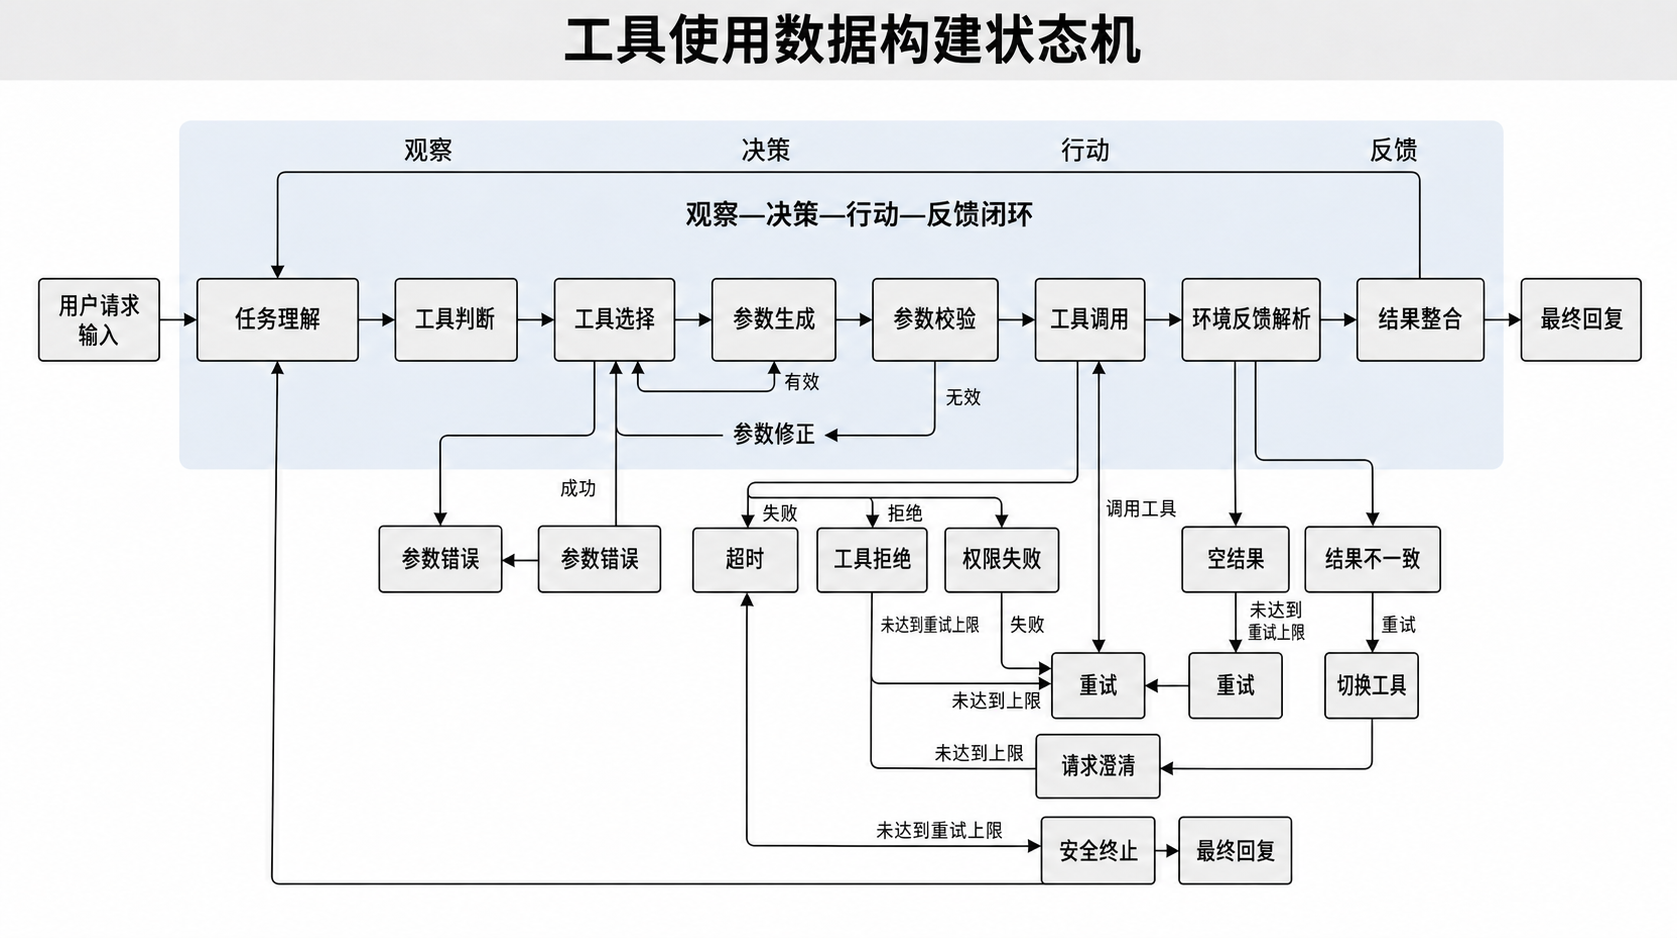
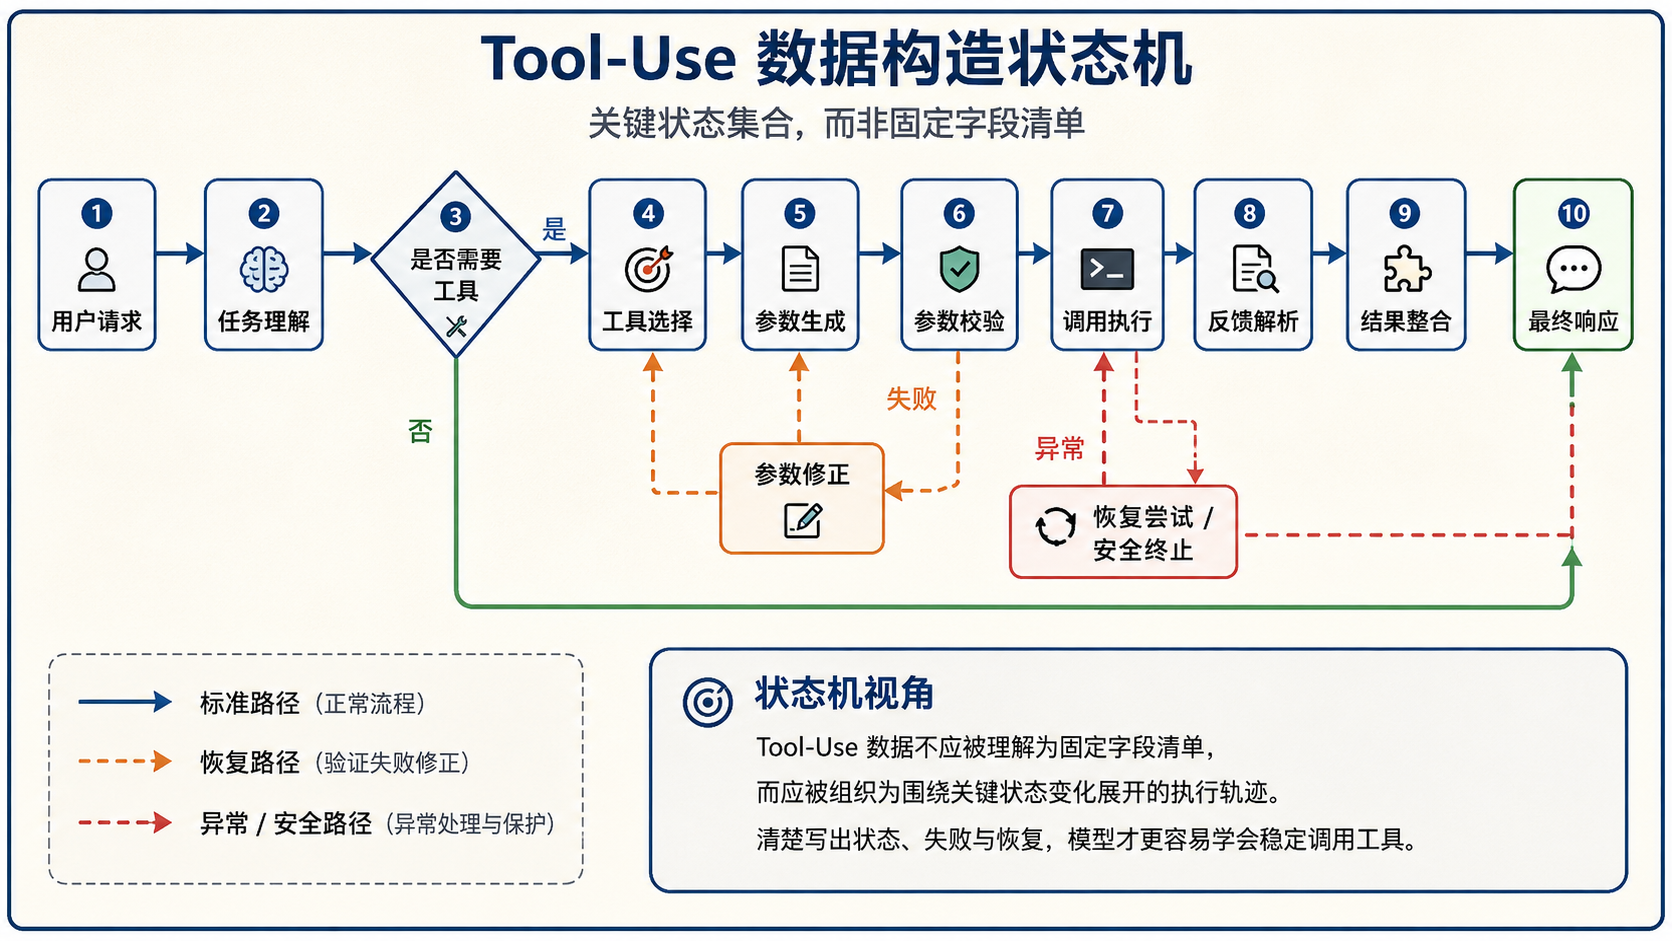
Modified according to the review (#116)
* Fix P14 image display issue

* Fix references in parts 4, 5, and 6

* Optimize Chinese images and revise text content (#51)

* Fix figure in parts 4, 5, and 6

* case update

* Update the English images and modify the issues related to cross-review.

* Update the English images and modify the issues related to cross-review.

* Modified according to the review

Pull request: Modified according to the review

Changed region(s): [[0.0, 0.0, 1.0, 0.9893], [0.0622, 0.6802, 0.3421, 0.8966], [0.1555, 0.4638, 0.1866, 0.4947]]

diff --git a/docs/zh/part4/ch14_qa.md b/docs/zh/part4/ch14_qa.md
@@ -1,8 +1,8 @@
-# 第14章：标注平台、QA体系与数据运营
+# 第14章 标注平台、质量保障体系与数据运营
 
 ## 摘要
 
-标注平台不是简单的"发任务工具"，而是一套质量控制系统。本章面向负责数据标注平台、QA 体系与运营治理的团队，阐述大模型数据标注与传统 CV/NLP 标注的差异，以及平台能力、流程能力与运营能力的边界。章节先讨论单轮问答、多轮对话、比较标注、审稿式标注的任务建模与工作流，包括样本分发、权限控制、进度监控与返工机制；随后建立 QA 一致性管理体系，涵盖预审、复审、仲裁、抽检、盲审的组合模式，以及一致性指标、黄金集与陷阱题的使用方法；进而讨论人效、质量、周期、成本四类运营指标与外包供应商治理；最后说明标注知识库、QA 手册与复盘库的沉淀，并衔接数据运营组织建设。
+本章围绕“标注平台、质量保障（Quality Assurance，QA）体系与数据运营”展开，聚焦大模型数据工程中的关键设计问题。章节从场景约束、数据对象、流水线设计、质量评估和工程治理等维度展开，说明如何把零散的数据处理动作收敛为可复盘、可验证、可交付的系统方法，并为后续章节和项目实战建立统一分析框架。
 
 ## 关键词
 
@@ -52,7 +52,7 @@
 
 从这个意义上说，标注平台的真正目标，应从支持某一次任务顺利完成，延伸到逐步让组织具备持续生产高质量数据的能力。这种能力越成熟，团队越不依赖临时协调和个人经验；反之，平台越薄弱，项目越大，组织就越容易陷入反复被动处置的状态。
 
-### 14.1.3 大模型数据标注与传统 CV/NLP 标注的差异
+### 14.1.3 大模型数据标注与传统计算机视觉（Computer Vision，CV）/自然语言处理（Natural Language Processing，NLP）标注的差异
 
 如果说平台为什么必须从任务工具升级为质量控制系统，那么最根本的原因，就在于大模型数据标注本身已经不同于传统的 CV 或 NLP 标注任务。很多团队在建设标注体系时最容易犯的错误，就是把过去做分类、检测、分割、实体识别、情感分类时的经验，直接平移到大模型数据上。他们默认任务只是“更复杂一点”，却没有意识到任务范式本身已经变了。
 
@@ -60,7 +60,7 @@
 
 而大模型数据标注的核心对象，往往已经从单一标签转向模型行为本身。这里的标注，除了判断一个答案是否正确，还包括判断它是否完整、是否符合用户意图、是否遵守风格要求、是否具有安全边界意识、是否逻辑连贯、是否表达自然、是否结构清晰，甚至还包括在多个候选答案中比较哪一个“更好”，以及说明“为什么更好”。也就是说，大模型标注所面对的，已经从简单目标扩展为一组复合标准共同作用下的行为评价。InstructGPT、摘要偏好学习和基于人类偏好的强化学习研究，都体现了这种从标签判断转向行为偏好和目标对齐的变化 (Stiennon et al. 2020)。
 
-这种变化会带来若干实质性影响。首先，答案空间从封闭走向开放。很多传统标注任务只有有限几个类别，而大模型任务可能存在多个都可接受的答案，甚至同一个问题在不同场景下可以有不同风格的高质量回应。其次，质量维度从单维走向多维。传统标签任务通常围绕“是否正确”展开；大模型任务常常同时涉及事实性、完整性、清晰度、格式性、安全性与风格一致性。再次，主观判断比例显著上升。许多大模型任务并没有唯一标准答案，需要在多个合理候选中进行带解释的判断。最后，规则更新频率更高。传统数据集的标签定义可能数月不变，但大模型项目中的策略、风格、风险边界和产品需求都可能在几周内发生变化。开放式问答与多轮对话评测中的 LLM-as-a-judge 研究，也专门讨论了位置偏差、冗长偏差和与人类偏好一致性等问题，说明开放式评价不能简单等同于传统分类准确率 (Zheng et al. 2023)。
+这种变化会带来若干实质性影响。首先，答案空间从封闭走向开放。很多传统标注任务只有有限几个类别，而大模型任务可能存在多个都可接受的答案，甚至同一个问题在不同场景下可以有不同风格的高质量回应。其次，质量维度从单维走向多维。传统标签任务通常围绕“是否正确”展开；大模型任务常常同时涉及事实性、完整性、清晰度、格式性、安全性与风格一致性。再次，主观判断比例显著上升。许多大模型任务并没有唯一标准答案，需要在多个合理候选中进行带解释的判断。最后，规则更新频率更高。传统数据集的标签定义可能数月不变，但大模型项目中的策略、风格、风险边界和产品需求都可能在较短周期内频繁变化。开放式问答与多轮对话评测中的 LLM-as-a-judge 研究，也专门讨论了位置偏差、冗长偏差和与人类偏好一致性等问题，说明开放式评价不能简单等同于传统分类准确率 (Zheng et al. 2023)。
 
 正因为存在这些差异，大模型数据标注不能简单复制传统模式。如果仍然把平台做成“给一个输入、收一个输出”的简单表单系统，把质检理解成末端抽查，把运营理解成监督进度，那么项目往往会迅速出现质量漂移、口径不一、返工堆积和成本失控。大模型数据生产需要的，已经超出扩大标注团队本身，还包括更强的规则建模能力、更细的流程治理能力和更持续的质量校准能力。
 
@@ -98,7 +98,7 @@
 
 流程能力，指的是组织是否想清楚了任务应当如何被组织和流转。它解决的是“应该怎么跑”的问题，例如什么类型的任务要单审，什么类型的任务要双审，什么情况直接返工，什么情况升级仲裁，哪些样本要进入审计样本池，哪些阶段需要插入黄金集。流程能力未必直接体现在代码中，但它决定了平台应如何被配置，也决定了QA系统的运作方式。
 
-运营能力，则是让平台和流程在真实环境中持续运转的能力。它解决的是“现实中如何稳定执行”的问题，例如如何做排班，如何培训新团队，如何管理外包供应商，如何追踪SLA，如何在质量、周期和成本之间平衡，如何在规则更新之后快速完成口径同步。运营的含义超出简单的人力调度，指的是面对波动、延迟、人员水平差异和任务峰谷变化时，仍能让系统维持稳定的能力。
+运营能力，则是让平台和流程在真实环境中持续运转的能力。它解决的是“现实中如何稳定执行”的问题，例如如何做排班，如何培训新团队，如何管理外包供应商，如何追踪服务等级协议（Service Level Agreement，SLA），如何在质量、周期和成本之间平衡，如何在规则更新之后快速完成口径同步。运营的含义超出简单的人力调度，指的是面对波动、延迟、人员水平差异和任务峰谷变化时，仍能让系统维持稳定的能力。
 
 这三类能力彼此相关，但不能互相替代。没有平台能力，很多流程只能靠人工表格和群聊维持，越做越脆弱；没有流程能力，平台即使功能齐全，也只能成为一个静态表单系统；没有运营能力，平台和流程再完美，也会在真实执行中因培训断层、沟通失真和资源波动而失效。
 
@@ -372,7 +372,7 @@
 
 
 
-**表14-1 标注角色职责与权限表**
+**表14-1： 标注角色职责与权限表**
 
 | 角色 | 核心职责 | 主要权限 | 关键边界 |
 |---|---|---|---|
@@ -532,7 +532,7 @@ FROM base;
 
 培训也绝不能停留在一次宣讲或一份文档分发。尤其在大模型任务中，很多规则无法通过读一遍就掌握，必须通过示例、试标、复盘和校准逐步内化。好的培训应当至少包含规则解释、典型错误分析、边界案例讨论和黄金集实操四部分。更重要的是，培训必须与实际任务绑定，避免空泛地讲原则。只有当培训材料与当前批次任务高度对应时，团队才会真正形成执行一致性。非专家标注研究表明，通过任务设计、示例和质量校验，可以在一定程度上提升非专家标注的可用性，但必须配合持续校准 (Snow et al. 2008; Kittur et al. 2008)。
 
-考核不应只看总通过率。因为一个团队可能在简单任务上表现良好，却在关键高风险任务上持续失误。如果考核维度过粗，组织就会被平均分欺骗。更合理的做法，是按任务类型、风险等级、错误标签分布、黄金集表现和SLA达成情况进行组合考核。这样一来，考核的结果才能真正指导分配、培训和替换决策。
+考核不应只看总通过率，因为一个团队可能在简单任务上表现良好，却在关键高风险任务上持续失误。如果考核维度过粗，组织就会被平均分欺骗。更合理的做法，是按任务类型、风险等级、错误标签分布、黄金集表现和SLA达成情况进行组合考核。这样一来，考核的结果才能真正指导分配、培训和替换决策。
 
 替换机制同样需要制度化。许多团队直到供应商已经严重拖累项目，才下决心更换，但那时往往已经付出高昂代价。更成熟的做法，是设定明确的预警与退出条件，例如连续多周期SLA不达标、关键错误类型持续恶化、培训后仍未改善、跨团队校准后口径偏差仍大等。一旦触发阈值，就应启动限流、整改或替换流程，而不应继续依赖临时协调拖延问题。
 
@@ -565,7 +565,7 @@ FROM base;
 
 ### 14.4.5 标注生产率与成本治理
 
-在大模型数据生产中，“提高效率”和“压低成本”常常被挂在嘴边，但真正落到执行时，这两个目标往往被粗暴地理解为“让人做得更快”或者“把单价谈得更低”。这种做法短期看似有效，长期往往适得其反。因为在数据生产体系中，最重要的不是表面的速度和价格，而要看单位资源最终换来了多少真正可用、可复用、可支撑模型迭代的数据。
+在大模型数据生产过程中，效率提升与成本控制常被作为重要管理目标加以强调；但在实际执行中，这些目标有时会被片面理解为加快人工处理节奏或压缩单位任务成本。这种做法短期看似有效，长期往往适得其反。因为在数据生产体系中，最重要的不是表面的速度和价格，而要看单位资源最终换来了多少真正可用、可复用、可支撑模型迭代的数据。
 
 所谓标注生产率，核心不在每人每天做多少条，而在于既定质量约束下，每单位工时、每单位审核资源、每单位平台投入能够稳定产出多少有效数据。生产率提升通常不能靠简单催速度实现，更依赖改善任务建模、减少低级返工、优化模板约束、提高前置筛查精度、让人机协同真正减少重复劳动。换言之，生产率提升更多来自系统设计优化，不能依赖把人逼得更紧。主动学习和弱监督的共同目标，也是用更少、更有针对性的人工投入获得可用训练信号 (Settles 2009; Ratner et al. 2017)。
 
@@ -573,7 +573,7 @@ FROM base;
 
 因此，生产率治理和成本治理必须与平台设计、QA设计和知识沉淀联动起来看。平台把任务结构化得越好，人机协同嵌入得越合理，质检路径分层越清晰，知识库更新越及时，单位可用数据成本通常就越低。大模型数据生产真正需要的并非单点省钱，重点在于系统性地把钱花在最能提升可用产出的地方。
 
-**表14-2 运营指标与 SLA 表**
+**表14-2： 运营指标与 SLA 表**
 
 | 指标类别 | 指标名称 | 定义说明 | 典型监控频率 | 参考 SLA 示例 | 典型治理动作 |
 |---|---|---|---|---|---|

diff --git a/docs/zh/part5/ch16_distillation.md b/docs/zh/part5/ch16_distillation.md
@@ -328,6 +328,8 @@ if __name__ == "__main__":
 
 *表16-1： 协作模式与适用任务*
 
+**表16-1： 协作模式与适用任务**
+
 | 协作模式 | 角色配置 | 典型流程 | 适用任务 | 优势 | 风险点 |
 |---|---|---|---|---|---|
 | 单教师直蒸 | 1个教师 + 1个学生 | 教师生成 → 规则过滤 → 学生训练 | 格式化问答、简单分类、模板写作 | 链路短、启动快、风格统一 | 单一偏差容易继承 |
@@ -364,7 +366,7 @@ if __name__ == "__main__":
 
 ### 不同蒸馏类型对应不同的监督密度
 
-虽然答案蒸馏、过程蒸馏、风格蒸馏和工具轨迹蒸馏常常被并列讨论，但它们之间一个非常关键的差异在于监督密度。答案蒸馏通常提供的是相对稀疏的监督信号，即学生只知道“输入最终对应什么输出” (Hinton et al. 2015; Kim and Rush 2016)；过程蒸馏 (Lightman et al. 2023)提供的是中等到高密度监督，因为学生不仅看见最终答案，还看见部分判断路径 (Lightman et al. 2023; Wei et al. 2022)；工具轨迹蒸馏 (Schick et al. 2023; Yao et al. 2023; Patil et al. 2024)的监督密度往往更高，因为它不仅包含决策结果，还包含调用时机、动作序列、执行反馈与收束方式 (Schick et al. 2023)。
+虽然答案蒸馏、过程蒸馏、风格蒸馏和工具轨迹蒸馏常常被并列讨论，但它们之间一个非常关键的差异在于监督密度。答案蒸馏通常提供的是相对稀疏的监督信号，即学生只知道“输入最终对应什么输出” (Hinton et al. 2015; Kim and Rush 2016)；过程蒸馏 (Lightman et al. 2024)提供的是中等到高密度监督，因为学生不仅看见最终答案，还看见部分判断路径 (Lightman et al. 2024; Wei et al. 2022)；工具轨迹蒸馏 (Schick et al. 2023; Yao et al. 2023; Patil et al. 2024)的监督密度往往更高，因为它不仅包含决策结果，还包含调用时机、动作序列、执行反馈与收束方式 (Schick et al. 2023)。
 
 这件事看上去像是样本格式差异，实际上会直接影响学生学到什么、学得多稳。答案蒸馏最“轻”，因为它几乎只告诉学生最后该说什么。这样的监督好处是简单、干净、训练成本低，学生不容易被太多中间信息拖住，尤其适合那些输入边界清楚、结果形式稳定的任务，比如结构化抽取、短答分类、格式规范改写之类。可它的弱点也很明显：学生知道最后长成什么样，却不一定知道为什么要这么答。遇到稍微变形一点的输入，或者需要在几个相近选项里做判断时，它就容易显得脆。
 
@@ -418,7 +420,7 @@ if __name__ == "__main__":
 
 ### 解释链保留的关键在可迁移性，而非长度
 
-在大模型蒸馏中，解释链 (Lightman et al. 2023; Wei et al. 2022)一直是一个容易被神化的对象。很多团队直觉上认为，只要把教师的思考过程完整保留下来，学生就更容易学会推理 (Wei et al. 2022)。但实际情况要复杂得多。解释链是否有价值，并不由它是否完整决定，而由它是否对学生形成可迁移的判断结构决定。
+在大模型蒸馏中，解释链 (Lightman et al. 2024; Wei et al. 2022)一直是一个容易被神化的对象。很多团队直觉上认为，只要把教师的思考过程完整保留下来，学生就更容易学会推理 (Wei et al. 2022)。但实际情况要复杂得多。解释链是否有价值，并不由它是否完整决定，而由它是否对学生形成可迁移的判断结构决定。
 
 这种误解很常见，因为从人的视角看，一段长而完整的解释链往往显得“信息很多”。教师先分析背景，再拆解条件，再权衡若干可能性，最后得出结论，整个过程看上去很像真正的推理轨迹。可问题在于，学生模型并不是在阅读这段过程，它是在拿这段过程当训练信号。对小模型来说，过长的自然语言解释并不一定会自动变成更清楚的推理框架，反而很可能先变成一堆要模仿的句式、铺垫和表达习惯。最后学到手的，常常是“像在分析”，而不一定是真的更会判断。
 
@@ -557,6 +559,8 @@ if __name__ == "__main__":
 
 *表16-2： 蒸馏收益与成本*
 
+*表16-2： 蒸馏收益与成本*
+
 | 评估维度 | 典型收益 | 典型成本 | 常见隐患 | 适用判断 |
 |---|---|---|---|---|
 | 推理质量 | 提升准确率、一致性、风格稳定性 | 教师生成成本、裁判评测成本 | 高分可能来自数据泄漏或验证集同质化 | 适合目标明确、评价标准清楚的任务 |
@@ -671,7 +675,7 @@ Mirzadeh, S. I., Farajtabar, M., Li, A., et al. (2020). Improved Knowledge Disti
 
 Kim, Y., & Rush, A. M. (2016). Sequence-Level Knowledge Distillation. Proceedings of the 2016 Conference on Empirical Methods in Natural Language Processing, 1317–1327.
 
-Lightman, H., Kosaraju, V., Burda, Y., et al. (2023). Let’s Verify Step by Step. arXiv preprint arXiv:2305.20050.
+Lightman, H., Kosaraju, V., Burda, Y., et al. (2024). Let’s Verify Step by Step. International Conference on Learning Representations (ICLR 2024). arXiv:2305.20050.
 
 Wei, J., Wang, X., Schuurmans, D., et al. (2022). Chain-of-Thought Prompting Elicits Reasoning in Large Language Models. Advances in Neural Information Processing Systems, 35, 24824–24837.
 

diff --git a/docs/zh/part5/ch15_data_synthesis.md b/docs/zh/part5/ch15_data_synthesis.md
@@ -49,7 +49,7 @@
 
 ### 从“能生成”到“能交付”：产能定义本身需要被重写
 
-很多团队谈论合成数据产能时，习惯用“每天可以生成多少条”来衡量。但对真正的工厂系统而言，这个指标远远不够。工厂关心的是**经过筛选、验证并可交付训练的有效产出量**，原始输出量并不能直接代表产能。如果一个系统每天能生成十万条候选数据，却只有一万条能通过质量闸门，那么它的真实产能应按一万条计算，而不能按十万条计算。更进一步，如果这批通过闸门的数据在训练后几乎不带来增益，那么从训练收益视角看，它的有效产能可能还要更低。
+很多团队谈论合成数据产能时，习惯用“每天可以生成多少条”来衡量。但对真正的工厂系统而言，这个指标远远不够。工厂关心的是**经过筛选、验证并可交付训练的有效产出量**，原始输出量并不能直接代表产能。假设一个系统每天能生成十万条候选数据，却只有一万条能通过质量闸门，那么它的真实产能应按一万条计算，而不能按十万条计算。更进一步，如果这批通过闸门的数据在训练后几乎不带来增益，那么从训练收益视角看，它的有效产能可能还要更低。
 
 因此，产能不能只看模型生成了多少 token、脚本跑了多少轮，或者目录里多了多少 JSON 文件。更合理的产能指标至少应包括四层：候选产出量、合格入库量、训练可消费量，以及最终对模型能力的实际贡献。前两层属于数据生产过程指标，后两层则将数据系统与训练系统真正联结起来。只有把这几层指标分开观测，团队才知道瓶颈究竟出现在生成、筛选、验证，还是出现在数据本身对训练目标的贴合程度上。
 
@@ -169,6 +169,7 @@
 
 不同工厂配置并不存在绝对优劣，它们对应的是不同阶段、不同任务和不同预算条件下的最优解。下面这张表旨在帮助团队理解合成数据系统的核心：如何设计一条匹配业务目标的生产链，而不提供唯一答案，也不把问题简化为“选哪一个模型”。
 
+**表15-1： 成本、产能与质量平衡表**
 | 工厂配置策略 | 典型做法 | 成本 | 产能 | 质量上限 | 主要风险 | 更适合的场景 |
 |---|---|---:|---:|---:|---|---|
 | 强模型单模型直出 | 用高端模型直接生成，轻量规则过滤后入库 | 高 | 中 | 高 | 成本过高，风格单一，难形成规模 | 冷启动期、精品集构建、标杆样本制作 |
@@ -226,7 +227,7 @@
 
 ### 模板库为什么不是 prompt 仓库
 
-很多团队名义上建立了模板库，实际上只是把一堆 prompt 文本放进了某个目录。这种做法在数量不多时还勉强可用，但一旦模板达到几十个、几百个，它就会迅速失控。因为 prompt 仓库解决的是“存起来”，而模板库要解决的是“可调用、可组合、可治理、可版本化”。
+很多团队名义上建立了模板库，实际上只是把一堆 prompt 文本放进某个目录。这种做法在模板数量不多时还勉强可用，但一旦模板数量持续增长，就会迅速暴露出管理边界不清、调用方式混乱、版本难以追踪等问题。
 
 一个真正的模板库，首先应当支持清晰分类。任务骨架、角色设定、难度参数、约束模块不应混写在同一个大段 prompt 里，而应尽可能拆为不同层。其次，它应当支持参数化。模板中的领域、对象、输入长度、输出格式、风险级别、拒答策略等变量，最好能通过配置注入，而不是靠人工逐条改写。再次，它应当有版本管理和适用说明，明确该模板适合哪些任务、已知存在什么边界、最近在哪些场景失败过。只有满足这些要求，模板库才真正是工厂资产，而不只是写作素材堆。
 
@@ -296,6 +297,8 @@
 
 下面这张表用于帮助团队建立“种子不是一类东西”的基本认识。不同来源的 seed 在真实性、成本、风险与可扩张性上都有明显差异，因此它们适合承担的任务也不同。
 
+
+**表15-2 种子来源与适用任务表**
 | 种子来源 | 典型内容 | 优势 | 主要风险 | 更适合的任务 | 使用建议 |
 |---|---|---|---|---|---|
 | 人工标注精品样本 | 专家撰写问答、推理、拒答、工具调用样本 | 质量高、边界清晰、可作为金标准 | 成本高、覆盖有限 | 高风险任务、复杂推理、对齐数据、首批模板抽象 | 用作核心锚点，数量不必多，但必须精 |